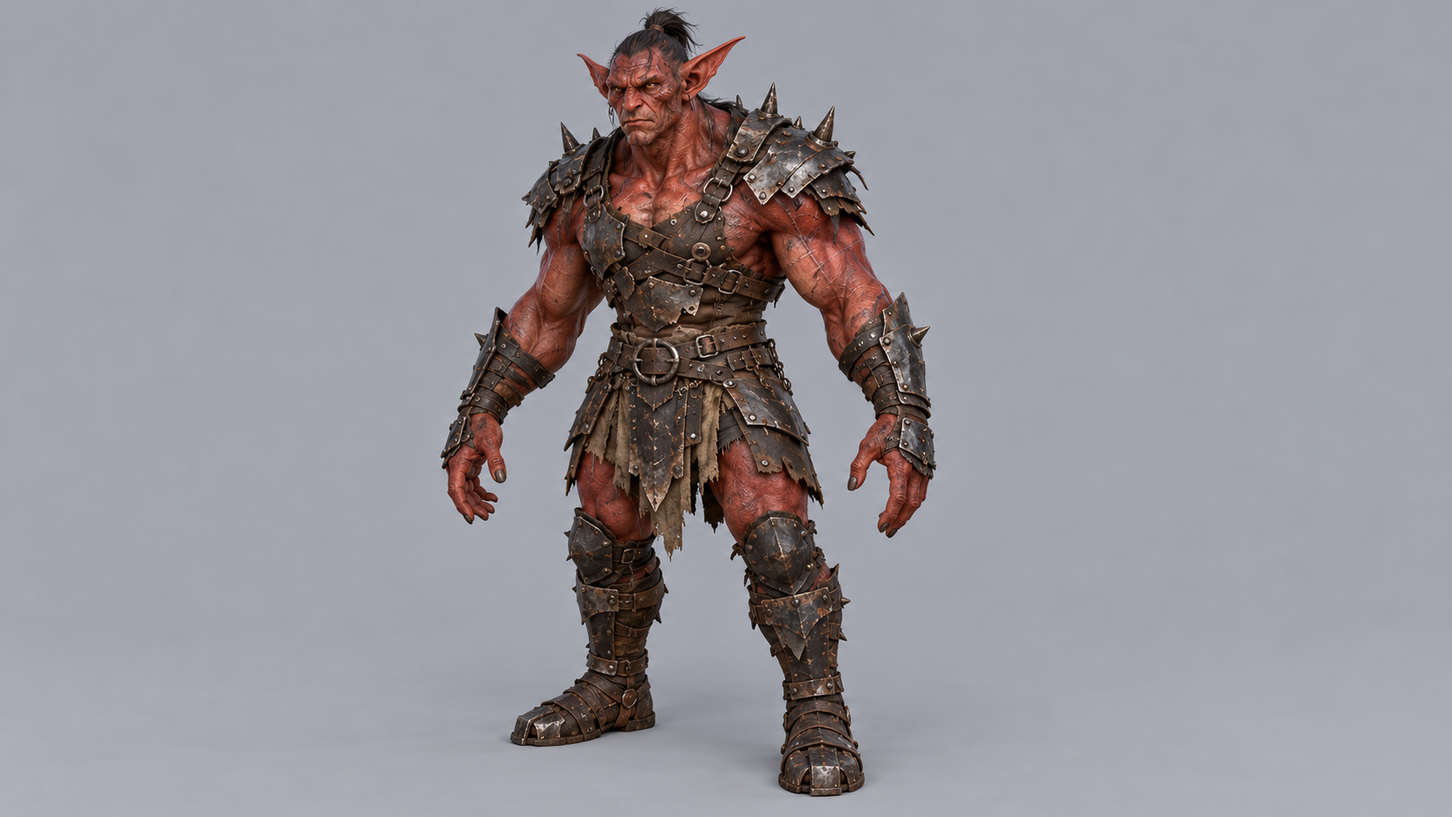
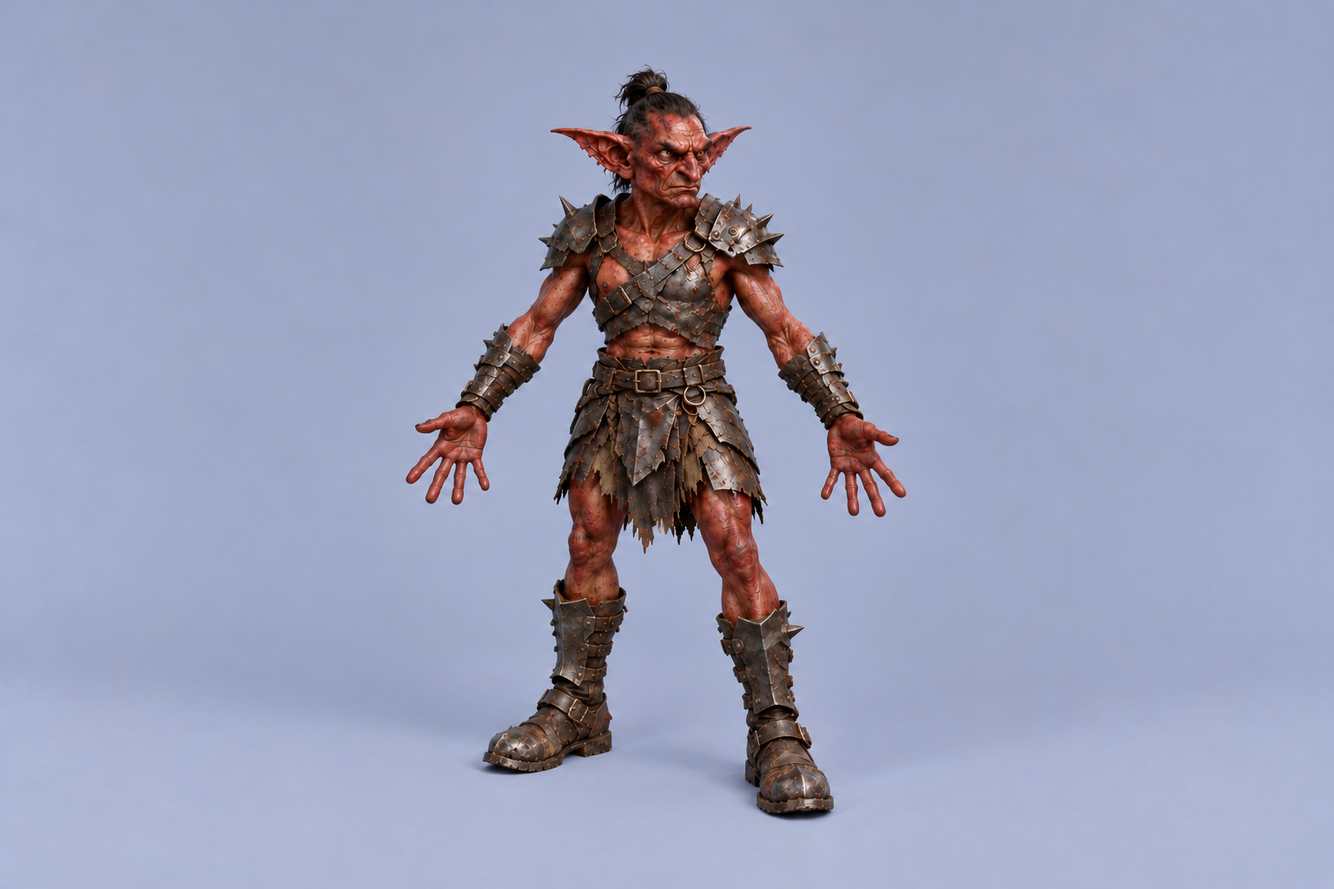
Regenerated goblin images; Red Goblin boots and second-round corrections
Add the regenerated goblin bestiary plates and model references with
Codex's updated prompt log. Give Red Goblins fitted hobnailed boots in
the creature text, and record second-round correction notes: Red
Goblin footwear and plate details, the Golden Hoard-warden, the Red
model reference's proportions and Green-anchor drift, the Golden
skin and paint, and the lavender background on all three references.

diff --git a/.codex/skills/creature-model-references/references/prompt-recipes.md b/.codex/skills/creature-model-references/references/prompt-recipes.md
@@ -493,7 +493,7 @@ Final gill anatomy: override any rib-like treatment with SOLID smooth grey flank
 ```
 
 
-### Goblin model-reference refresh — 10 October 2026
+### Goblin model-reference refresh — 10 October 2026 (historical; superseded below)
 
 One representative of each goblin people: Raider, Grunt and Gleaner. Built-in image generation; no correction rounds after the initial generation. The previous Green Goblin anchored studio presentation only; the Wolf anchored Red and Golden presentation only. All three were visually checked for two arms, two legs, separated limbs, complete framing and a plain background. Absolute size remains defined by the creature Markdown.
 
@@ -548,45 +548,110 @@ Pose: neutral upright A-pose while retaining modest species stoop, not all-fours
 Camera: three-quarter front about 30–35 degrees from slightly above, entire head ears fingertips toes in frame with 5% margin, closely framed for anatomical readability. Plain light-grey seamless backdrop, very soft even neutral illumination; subtle contact shading only, no strong cast shadows, no torch scene, cave, treasure heap, other character, scale silhouette, border, title, labels, weapons, throne or props. Realistic pale translucent skin, fine veins, ragged cloth and granular flaky gold paint, like a high-end photorealistic horror-fantasy game model. Closed mouth, neutral watchful expression, no gore. ONE full creature only.
 ```
 
-### Goblin model-reference corrections — pending (reviewed 10 October 2026)
+### Goblin model-reference refresh — corrected 10 October 2026
 
-All three refreshed goblin references need corrections, and two of them because the creature files changed after generation: the Green Goblin is now 40 to 50 kilograms and lean rather than starved, and the Red Goblin is now 70 to 85 kilograms with the build of a fit human soldier. The consolidated prompts recorded above still carry the old weights and physiques, so do not regenerate from them unedited. Apply each fix as its own edit in the conversation that holds the image, one message per fix, then re-run the quality checklist. If a body-build fix makes the face, armour or colours drift, start a new conversation from the current Markdown instead. Remove an entry once its corrected image is saved and its fix round is recorded above.
+These references supersede the earlier goblin refresh. One representative per species: Raider, Grunt and Gleaner. Built-in image generation from current Markdown; the existing Green Goblin anchored studio presentation only, then its corrected render anchored the Red and Golden references. Every accepted image was visually checked for two arms, two legs, correct attachments, separated open hands, full framing and a plain background. Absolute sizes remain defined by the creature files. The consolidated prompts include the framing and hand corrections, and have not been rerun as single prompts.
+
+#### Green Goblin — Raider
+
+Saved as `Assets/Creatures/Model-references/green-goblin-model-reference.png`. Fix rounds: 2. Hands opened and fingers separated; framing expanded. Known weak spots: Fine fingers and layered leather edges may fuse; the small shoulder plate conceals part of the shoulder surface.
+
+Consolidated prompt:
+
+```text
+Create ONE photorealistic high-end game creature MODEL REFERENCE, full body, for single-image image-to-3D reconstruction.
+Input image role: use attached old goblin ONLY for light-grey studio background, soft even light and photographic material finish. The NEW body and pose must follow the text below; do not copy the old skeletal build or clawing hands.
+
+Subject: adult GREEN GOBLIN RAIDER, 1.40 metres tall and 40–50 kg. Compact, lean but SOLID and firm, tough ropy muscle over upper arms, forearms, thighs and calves, solid trunk with flesh covering ribs and sternum. Not starved, no exposed rib cage, not bulky bodybuilder.
+Anatomy: exactly TWO humanoid ARMS attached at shoulders and TWO LEGS attached at pelvis. Arms end in open hands; legs end in feet in boots. Natural separate shoulder/elbow/wrist and hip/knee/ankle joints. Long fingers, five clearly separated fingers per hand. Oversized pointed ears, sharp shoulders, narrow angular suspicious goblin face, sparse messy hair. Retain a MILD upper-back hunch and forward neck while standing upright in a neutral pose. No horns, tail or wings.
+Skin: unmistakable dull OLIVE GREEN, deeper mossy green-brown shoulders and back, muted paler olive inner arms and abdomen, realistic pores and subtle dirt.
+Clothing: representative Raider in sparse patched fitted leather straps leaving substantial torso visible, rope belt, mismatched stolen buckles, short ragged cloth/leather hip covering, mismatched oversized stolen boots. One SMALL battered cooking-pot scrap plate on shoulder, fitted without hiding the upper arm outline. Attached clothing only, no loose objects, no held blades, no shields, no packs.
+
+POSE is essential: neutral A-pose, both upper arms straight out/down at roughly 45 degrees from torso, elbows relaxed and NEARLY STRAIGHT. Hands EMPTY and OPEN, fingers extended with clear gaps, palms oriented visibly towards camera. No curled clawing gestures. Legs shoulder-width apart, knees only softly bent, both boots flat. Visible negative-space gaps between each arm and torso, each hand and thigh, and both legs. Absolutely no limb merging, action pose, squat or arm crossing.
+Camera: near three-quarter FRONT view about 30 degrees, slightly above, favour visibility of both arms/hands/legs. Portrait composition, ONE full character, every ear tip, fingertip and boot inside frame with at least 5 percent clear margin.
+Plain LIGHT GREY seamless studio background, soft neutral even lighting, only very subtle contact shading. No hard shadows, scenery, text, scale person, labels, weapons, props, pedestal, book, logo or watermark. Photoreal living green skin, real worn leather, metal and stitching, not illustration.
+
+Final corrections consolidated: Both hands fully open with five extended slightly fanned fingers and palms facing slightly towards camera. Entire character centred with at least 5 percent clear margin above highest hair and below boots; no cropped tips.
+```
 
 #### Red Goblin — Grunt
 
-The figure is a hulking brute with a bodybuilder's neck, shoulders and arms. The file now asks for a fit human soldier's build.
+Saved as `Assets/Creatures/Model-references/red-goblin-model-reference.png`. Fix rounds: 1. Framing expanded; soldier physique correct in initial generation. Known weak spots: Overlapping scrap plates and small spikes may merge; armour conceals the covered torso surfaces.
+
+Consolidated prompt:
 
 ```text
-Build: The goblin is far too massive. Slim it to the build of a fit, trained human soldier about 1.80 metres tall and 75 kilograms: square shoulders, a solid chest and strong forearms with natural, functional muscle, a normal-width neck and waist, and arms no thicker than an athletic man's. No bodybuilder bulk, barrel chest or swollen trapezius. Resize the scrap armour to fit the slimmer body. Keep the red skin, scars, yellow eyes, topknot, pointed ears, face, armour design, A-pose and framing identical.
+Create ONE NEW photorealistic high-end game creature MODEL REFERENCE, full body, neutral A-pose, for single-image image-to-3D reconstruction.
+Attached Green Goblin is ONLY a studio presentation anchor: copy its plain light-grey background, even soft lighting, realistic materials, open empty hands and clear separated-limb reference pose. Do NOT copy green colour, small size, green face or Raider outfit. Build the NEW Red Goblin from this text.
+
+Subject: adult RED GOBLIN GRUNT, 1.75–1.85 metres tall, 70–85 kg, proportions of a FIT HUMAN SOLDIER. Square but normal shoulders, solid chest, strong functional forearms, NORMAL-width neck and waist, lean marching soldier thighs/calves. Athletic 1.80 m, 78 kg man-at-arms build, NOT hulking orc, NOT bodybuilder, NO swollen neck/trapezius, bulging arms or barrel torso.
+Anatomy: exactly TWO arms at shoulders and TWO legs at hips, four limbs total. Somewhat long arms, large hands, oversized pointed ears, NARROW goblin jaw and angular face, no giant tusks. Separate complete shoulder/elbow/wrist/hand chains and hip/knee/ankle/foot chains. Slight forward lean but balanced standing upright. Five clearly separated extended fingers per open hand. No horns, wings, tail or extra appendages.
+Skin: matte BRICK RED fading to dark rust on back, shoulders and scalp, lighter rust-red chest and inner arms, fine pale healed scars. Small deep-set YELLOW eyes. Coarse black hair in a single topknot, CLOSED mouth, severe watchful expression. Realistic living skin, pores and uneven pigmentation.
+Outfit: forge-blackened mismatched jagged scrap IRON PLATES riveted on worn leather, made from stolen pots, cart fittings, broken blades and helmets. Compact spiked shoulder guards, open neck, fitted riveted torso plates, short plated leather hip skirt, separate bracers/greaves and complete worn foot coverings. Resize plates to the NORMAL soldier build. Substantial upper arm skin and elbow joints remain visible. No helmet to hide face. No oversized armour making a huge silhouette. No weapons or shields, nothing held, no trophy standard.
+
+POSE: neutral A-pose, arms angled out/down about 45 degrees away from torso, elbows nearly straight, both EMPTY hands FULLY OPEN, fingers extended and fanned with visible gaps, palms slightly toward camera. Legs shoulder-width apart, both feet flat and separated, knees only softly bent. Clear empty background gaps between each arm and torso, hands and thighs, and between legs. No limb crossing or fusing, no action or squat.
+Camera: near three-quarter front about 30 degrees, slightly above, entire body including topknot, ear and spike tips, fingers and boots visible. Centre figure with AT LEAST 5 percent clear background margin on ALL edges. One character only.
+Plain light-grey seamless backdrop and neutral soft even studio light, only subtle contact shading, no hard shadows, scenery, scale figure, text, labels, title, pedestal, props, blood, book, logo or watermark. High-end photoreal game asset with hammered iron, leather stitching and skin detail.
+
+Final correction consolidated: Full character centred vertically with at least 5 percent clear margin above topknot and below boots, all spike and finger tips inside frame.
 ```
 
 #### Golden Goblin — Gleaner
 
-The figure stands almost upright with a flat belly, the skin reads flesh-pink rather than sickly white, and the top of the head nearly touches the frame edge, inside the 5% margin.
+Saved as `Assets/Creatures/Model-references/golden-goblin-model-reference.png`. Fix rounds: 1. Framing expanded; stoop, distended belly and separate limbs present in initial generation. Known weak spots: Thin fingers, toes and trinket cords may fuse; paint should be a surface material, not raised metal geometry.
+
+Consolidated prompt:
 
 ```text
-Posture: The goblin stands too upright. Curve the spine into a permanent stoop, with the upper back rounded, the shoulders rolled forward and the head carried low and forward of the chest, while both feet stay flat and the arms stay out at 45 degrees with open empty hands. Give the belly a slight distension below the visible ribs. Keep everything else identical.
+Create ONE NEW photorealistic high-end fantasy game creature MODEL REFERENCE for single-image image-to-3D reconstruction.
+Attached Green Goblin is ONLY an anchor for grey studio background, soft neutral lighting, photoreal surface finish, open empty hands and separated-limb rig pose. Do NOT copy its solid body, green colour, clothing, boots or face. NEW subject below:
+
+Adult GOLDEN GOBLIN GLEANER, pale emaciated cave scavenger 1.40 metres tall and 25–32 kg. Not a bloated king. Four limbs: exactly TWO arms attached at SHOULDERS and TWO legs attached at PELVIS. Each arm separately traces shoulder -> elbow -> wrist -> long-fingered open hand. Each leg separately traces hip -> thigh -> knee -> calf -> long-toed bare foot. Absolutely no blending of arm with leg, no extra appendages.
+Physique: starved-looking skeleton-thin arms/legs, protruding knuckles and visible ribs, slightly DISTENDED LOWER BELLY below ribs. Back rounded into a PERMANENT STOOP: shoulders rolled forward, upper back visibly curved, neck extends forwards, head carried LOW and FORWARD of chest. It remains a standing A-pose reference with both feet flat and knees softly bent, NOT crouched down or on all fours and NOT straight-backed upright. Long grasping fingers and toes, oversized pointed ears, huge dark wet eyes and dilated pupils, narrow sunken face, wide mouth CLOSED with small crowded teeth concealed. No horns, tail, wings or armour.
+
+Skin/material: base colour is SICKLY PALE WHITE with a faint cold grey-blue undertone, almost translucent, with fine BLUE VEINS at temples, wrists and chest. NOT flesh-pink or tan. Gold is only surface PAINT: irregular streaks, handprints, daubs of DULL granular flaking pyrite/mica powder in greasy tallow, small subdued glints, visibly cracked edges and worn spots at elbows/knees. Majority of living pale white skin still visible. Not a smooth gold metal statue, not raised gold leaf or bright polished gold skin.
+Minimal modest clothing: opaque short ragged cloth/leather hip wrap fully covering groin, bare torso, arms, legs and grasping bare feet. Sparse small junk ornaments fixed close on cords: brass buttons, buckles, cheap coins, small mirror/glass scraps around neck and wrists and in ears. No luxurious real-gold royal chains, no weapon, bag or throne, no detached objects.
+
+Pose: arms extend outward/down about 45 degrees from torso, elbows nearly straight, both hands EMPTY and fully OPEN with five extended slightly fanned fingers and visible background gaps between all digits. Palms slightly towards camera. Legs shoulder-width apart, feet separated with readable long toes. Clear empty background gaps all along arm/torso, hand/thigh and leg/leg contours. Preserve rounded upper back and forward low head in this neutral standing A-pose. No limbs overlap, no curled claws or action gestures.
+Camera: three-quarter FRONT view around 30 degrees, slightly elevated, choose angle so both shoulder attachments, hands and legs visible. Entire figure centred, ears/hair/fingertips/toes INSIDE A GENEROUS 8 percent clear background border on all edges. ONE creature only, full body.
+Plain LIGHT GREY seamless studio background, neutral soft even light, subtle contact shading only. No cast shadows, cave, scenery, treasure, scale person, pedestal, book, labels, readable text, weapons, props, logo or watermark. Photoreal high-end game model: pale living veined skin, thin ragged fabric, gritty flaking paint, unsettling but no gore.
+
+Final correction consolidated: Entire character centred vertically with at least 5 percent clear margin around highest hair, ear tips, fingertips and toes; preserve stooped back and visible independent arm and leg outlines.
+```
+
+### Goblin model-reference corrections — pending (reviewed 10 October 2026, second round)
+
+The corrected Green Goblin reference is accepted apart from the shared background note below. Apply each fix as its own edit, one message per fix, then re-run the quality checklist. Remove an entry once its corrected image is saved and its fix round is recorded above.
+
+#### All three — background colour
+
+All three corrected references sit on a lavender-blue background instead of the plain light grey every other creature reference uses. It does not affect reconstruction, but keep the set consistent: when each image is next edited, finish with this fix.
+
+```text
+Background: The background is lavender-blue. Change it to a plain, neutral light grey seamless studio backdrop with no colour cast, matching soft even lighting. Keep the creature, its colours and every other detail identical.
+```
+
+#### Red Goblin — Grunt
+
+Regenerate this one rather than editing it. The accepted image has the proportions of a short goblin, about 5 heads tall, where a 1,80 metre adult human is about 7½, and its face, scowl, ears and chunky oversized boots are near copies of the Green Goblin's. The cause is the anchor: the Green render was attached and its body plan carried over. The build is also slim and wiry rather than square-shouldered, and the chest armour is a cropped harness that leaves the stomach bare.
+
+Start a new conversation. Attach no goblin image; if a studio anchor is needed, use the Wolf reference for background and lighting only. Build the prompt from the current [Red Goblin](../../../../Creatures/Red-goblin.md) file, which now also specifies boots, and add these lines to the subject:
+
+```text
+Proportions: ADULT HUMAN proportions, about 7.5 heads tall: a normal-sized head on a full-length torso and long legs, like a 1.80 metre man-at-arms. NOT the large-headed, short-bodied proportions of a small goblin. Only the oversized pointed ears, narrow jaw, slightly long arms and large hands mark it as a goblin. Face its own: severe, narrow and angular, with small deep-set yellow eyes; not the Green Goblin's face.
+Build: fit human soldier, square shoulders, solid chest, strong forearms, normal neck and waist; not wiry, not hulking.
+Armour: riveted scrap plates covering the chest and stomach on leather, spiked shoulder guards, plated hip skirt, bracers and greaves. Boots: heavy hobnailed leather boots FITTED to the feet, capped with scrap plate at toe and shin; not oversized, not stolen-looking.
+```
+
+#### Golden Goblin — Gleaner
+
+The stoop, belly, hands and framing are now correct. Two material fixes remain.
+
+```text
+Skin tone: The skin still reads beige-pink. Shift all bare skin to a sickly, almost translucent pale white with a cold grey-blue undertone, and make the fine blue veins at the temples, wrists and chest clearly visible. Keep the paint, pose and every other detail identical.
 ```
 
 ```text
-Skin tone: The skin reads flesh-pink. Shift the bare skin to a sickly, almost translucent pale white with a faint cold grey-blue undertone, so the blue veins at the temples, wrists and chest show clearly. Keep the gold paint, its coverage and every other detail identical.
-```
-
-```text
-Framing: The top of the head nearly touches the frame edge. Zoom out slightly so the head, both ear tips, the fingertips and the toes all sit inside a clear 5% margin on every side, with the figure centred. Keep everything else identical.
-```
-
-#### Green Goblin — Raider
-
-The figure holds a crouched, claws-out stance with bent elbows and curled hands instead of the neutral A-pose with open hands the prompt asked for, which makes the arms and hands harder to rig.
-
-```text
-Pose: The goblin is crouched with bent elbows and curled, claw-like hands. Straighten it into a neutral A-pose that keeps only the species' mild hunch: elbows relaxed and nearly straight, both arms angled down about 45 degrees away from the torso, both hands open and empty with five clearly separated fingers, knees only softly bent and feet flat about shoulder width apart. Keep the boots, clothing, shoulder plate, skin colour and face identical.
-```
-
-The body is also too thin for the updated file, with the ribs, sternum and sticklike limbs showing.
-
-```text
-Build: The goblin is too skinny. Give it a lean but solid body of about 45 kilograms at 1.40 metres: compact and firm, ropy muscle over the upper arms, forearms, thighs and calves, a little flesh over the ribs so they no longer show, and a solid trunk. Wiry and tough, not starved, not bulky. Keep the pose, boots, clothing, shoulder plate, skin colour, ears and face identical.
+Gold paint: The paint reads as yellow stains on the skin. Make it read as dull gold PAINT: gritty pyrite and mica flakes in greasy tallow, applied in streaks, handprints and daubs with cracked, flaking edges, catching small metallic glints where the light hits. Still matte overall, not polished gold. Keep the skin, pose and every other detail identical.
 ```
 

diff --git a/.codex/skills/creature-bestiary-images/references/prompt-recipes.md b/.codex/skills/creature-bestiary-images/references/prompt-recipes.md
@@ -91,22 +91,12 @@ When a new creature file is added, add a row here with an adventurer hand not ye
 
 ## Pending Corrections
 
-Plates that were reviewed against their creature file and need regenerating. Rebuild the subject from the current Markdown as usual and fold in the correction; the notes only say what went wrong last time. Remove an entry once its corrected plate is saved.
+Plates that were reviewed against their creature file and need regenerating or editing. Rebuild the subject from the current Markdown as usual and fold in the correction; the notes only say what went wrong last time. Remove an entry once its corrected plate is saved.
 
-### Green Goblin — build (reviewed 10 October 2026)
+### Red Goblin — footwear and details (reviewed 10 October 2026, second round)
 
-Every goblin on the plate is drawn emaciated, with sticklike limbs and the ribs and spine showing. The file now gives a lean but solid body of 40 to 50 kilograms at 1,40 metres: compact and firm, ropy muscle over the arms and legs, a little flesh over the ribs and a solid trunk. Draw the Raider, Tinkerer and Scout tough and wiry rather than starved, so they cannot be mistaken for the bony Golden Goblin. Keep the skin colour, kit, trap sketch and scale, which were correct.
+The scale, soldier build, war camp and marching weapons are now correct; keep them. The main portrait and the foot sketch show bare feet with ankle wraps, but the file now puts every red goblin in heavy hobnailed leather boots fitted to the wearer, capped with scrap plate at the toe and shin. Draw boots on every red goblin on the spread and replace the bare-foot sketch with a study of the boot. In the same pass, remove the few spears still rising from the back ranks of the marching block, replace the smoking volcano in the top-left background with ordinary foothills under forge smoke, and bring the Warboss down to close to 2 metres, about a head above the human silhouette rather than taller.
 
-### Red Goblin — scale and build (reviewed 10 October 2026)
+### Golden Goblin — Hoard-warden (reviewed 10 October 2026, second round)
 
-The goblins tower over the human silhouette and are drawn as hulking, bodybuilder-heavy brutes. Measured against the silhouette, the Grunt reads at about 2,05 metres and the Warboss at about 2,3 metres, and the silhouette itself is drawn small and slight. The file gives a Grunt 1,75 to 1,85 metres and 70 to 85 kilograms, the build of a fit human soldier, and the Warboss close to 2 metres, tall and hard rather than massive. Draw every red goblin, the Ironback included, with the muscle of a trained human man-at-arms: square shoulders, a solid chest and strong forearms, but no swollen neck, bulging arms or barrel torso. Their menace on the page should come from the armour and the massed ranks, not from size. Put the human silhouette, drawn as an ordinary adult man of about 1,80 metres, on the same ground line as the right-page line-up so the Grunt stands eye to eye with it, the Ironback barely taller, and the Warboss no more than a head above it. Keep the main portrait, the Ironback's tower shield and hammer, the Warboss's horn and trophy standard, the drum platform and the war-camp palisade.
-
-Two smaller deviations to fix in the same pass. Arm the marching shield wall with cleavers, notched swords, axes, mauls and spiked clubs instead of spears, since the file lists only those weapons. Draw the war camp as hide tents and lean-tos around fighting pits and a central scrap forge, with no stone tower.
-
-### Golden Goblin — scale and title (reviewed 10 October 2026)
-
-The Gleaner stands nearly as tall as the human silhouette, about 1,7 metres by comparison, where the file gives 1,40 metres: roughly three-quarters of an adult human's height, the same height as a Green Goblin. Redraw the right-page line-up on one ground line with the silhouette at about 1,80 metres, the Gleaner's head level with the silhouette's chest, the stooped Hoard-warden only slightly taller, and the Gilded King at about 2,20 metres.
-
-The title's final "n" in "Golden" carries a long descending tail, so the lettering reads "Goldeŋ Goblin". Letter the title "Golden Goblin" with no flourish below the baseline on any letter.
-
-Two smaller deviations to fix in the same pass. Render the body paint as dull, gritty, flaking paint that glints only where light catches it, not as bright metallic gold leaf. Build the Gilded King's throne from heaped hoard junk (coins, plate, armour fittings, glass and brass) rather than an ornate carved gold throne with drapery; keep the real gold chains and rings on the King himself.
+The title, scale, Gilded King and paint are now correct; keep them. The Hoard-warden reads as a figure wrapped in muddy, dripping rags. The file describes an older, heavier goblin so caked in layers of gold paint that it has the cracked, glittering look of a gilded statue. Draw it with bare pale skin under thick, crazed layers of dull gold paint, cracked like old gilding, with only a scrap of cloth at the hips and its trinkets on cords.

diff --git a/Creatures/Red-goblin.md b/Creatures/Red-goblin.md
@@ -8,7 +8,7 @@ A red goblin is a biped with two arms and two legs, standing between 1,75 and 1,
 
 The skin runs from brick red to a dark rust, deepest across the back, shoulders and scalp and paler on the chest and the insides of the arms, and it is crossed with pale scar lines that red goblins wear with pride. Eyes are small, deep-set and yellow. Hair, where it grows, is coarse black and worn in a single topknot or shaved.
 
-Their armour is scrap made into a uniform. Plates beaten out of stolen pots, cart fittings, broken blades and battlefield helmets are riveted onto leather in overlapping, jagged layers, blackened in the forge fire and spiked at the shoulders and knuckles. Helmets are heavy and crude, often with a face plate cut into a snarl, and no two suits are alike even though a colony in formation reads as a single dark mass of iron. Weapons are heavy and close-range: cleavers, notched swords, axes, mauls and spiked clubs. Red goblins scorn the bow, and the few missiles they use are thrown just before the lines meet.
+Their armour is scrap made into a uniform. Plates beaten out of stolen pots, cart fittings, broken blades and battlefield helmets are riveted onto leather in overlapping, jagged layers, blackened in the forge fire and spiked at the shoulders and knuckles. Helmets are heavy and crude, often with a face plate cut into a snarl, and no two suits are alike even though a colony in formation reads as a single dark mass of iron. Every red goblin marches in boots: heavy, hobnailed leather taken from the dead or stitched in camp, fitted to the wearer and capped with scrap plate at the toe and shin, because a war-host that crosses stone and scrap for days on end cannot fight barefoot. Weapons are heavy and close-range: cleavers, notched swords, axes, mauls and spiked clubs. Red goblins scorn the bow, and the few missiles they use are thrown just before the lines meet.
 
 ## The Colony
 
